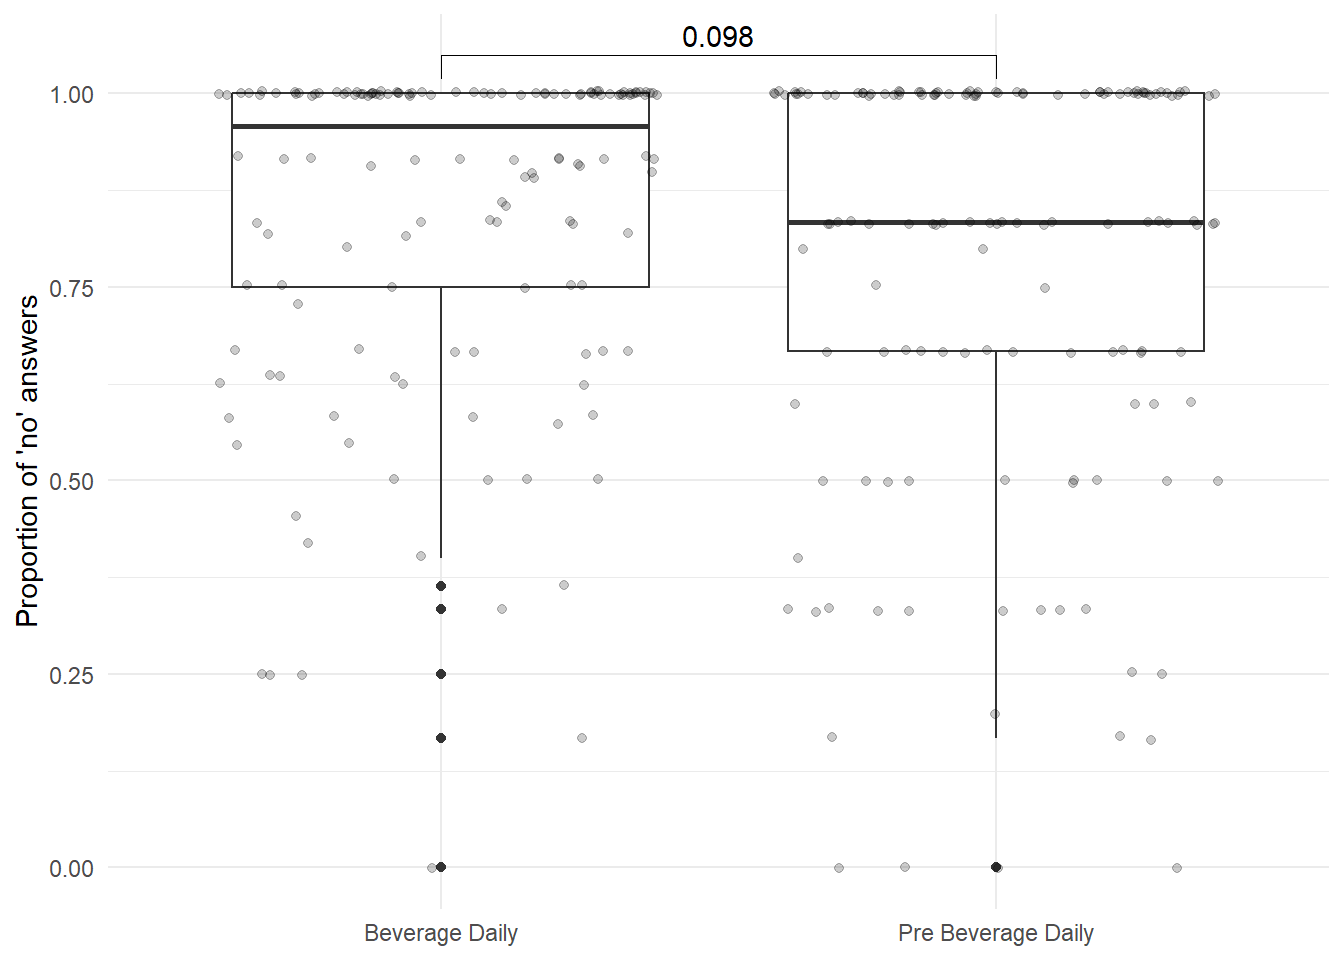
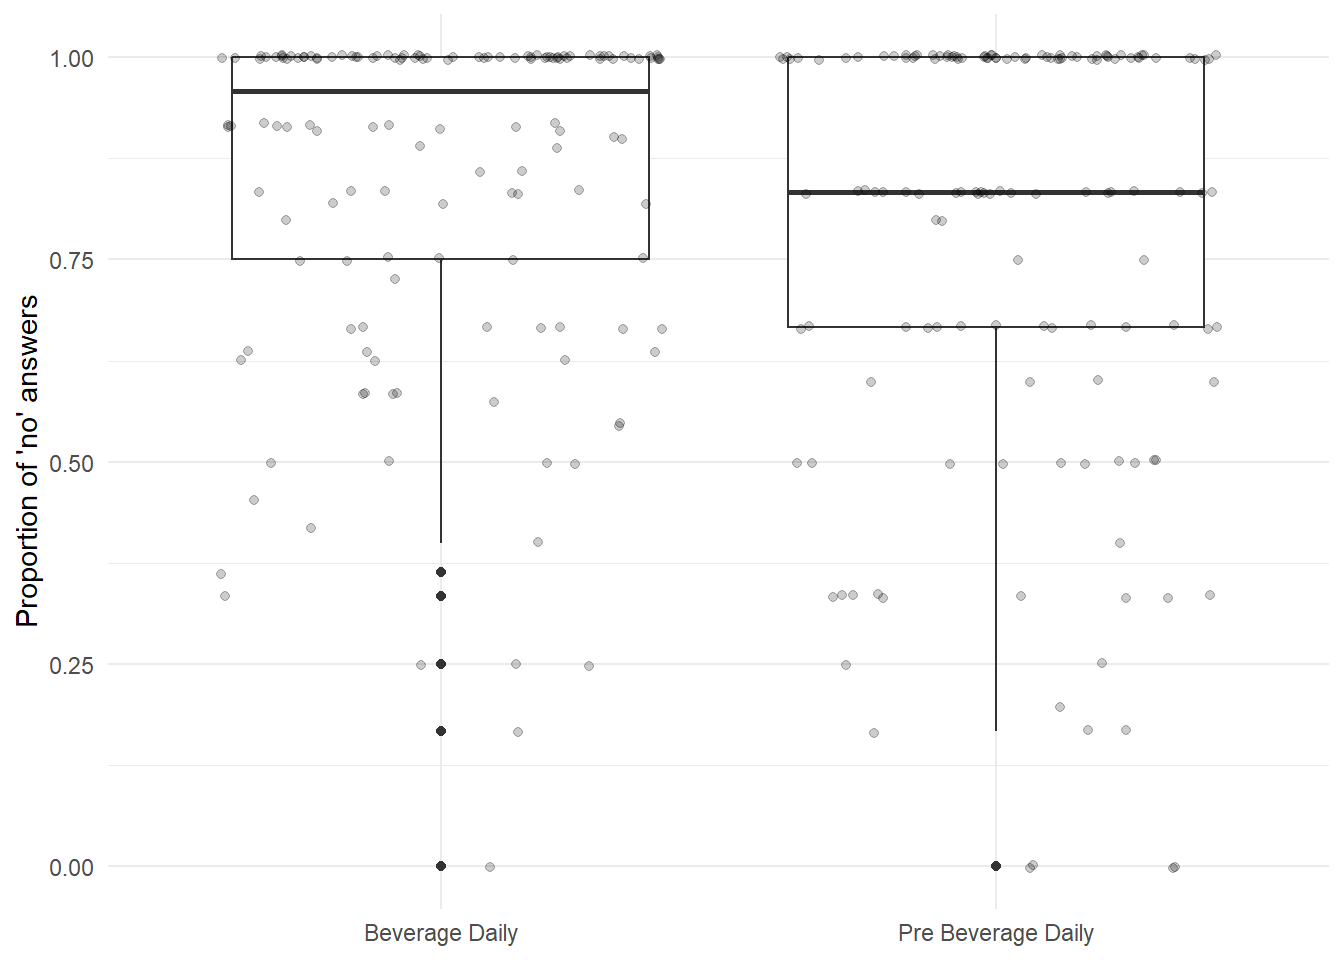
Updates

diff --git a/report.html b/report.html
@@ -204,9 +204,10 @@ background: #00524e;
 <span id="cb3-13"><a href="#cb3-13" aria-hidden="true" tabindex="-1"></a>  <span class="fu">group_by</span>(Battery) <span class="sc">%&gt;%</span></span>
 <span id="cb3-14"><a href="#cb3-14" aria-hidden="true" tabindex="-1"></a>  <span class="fu">get_summary_stats</span>(Value, <span class="at">show =</span> <span class="fu">c</span>(<span class="st">"n"</span>, <span class="st">"mean"</span>, <span class="st">"sd"</span>, <span class="st">"se"</span>, <span class="st">"ci"</span>))</span>
 <span id="cb3-15"><a href="#cb3-15" aria-hidden="true" tabindex="-1"></a></span>
-<span id="cb3-16"><a href="#cb3-16" aria-hidden="true" tabindex="-1"></a><span class="fu">kable</span>(daily_alc_stats)</span></code><button title="Copy to Clipboard" class="code-copy-button"><i class="bi"></i></button></pre></div>
+<span id="cb3-16"><a href="#cb3-16" aria-hidden="true" tabindex="-1"></a><span class="fu">kable</span>(daily_alc_stats, <span class="at">caption =</span> <span class="st">"Metrics of 'no' answers during and pre beverage"</span>)</span></code><button title="Copy to Clipboard" class="code-copy-button"><i class="bi"></i></button></pre></div>
 <div class="cell-output-display">
 <table class="table table-sm table-striped small">
+<caption>Metrics of ‘no’ answers during and pre beverage</caption>
 <thead>
 <tr class="header">
 <th style="text-align: left;">Battery</th>
@@ -250,16 +251,15 @@ background: #00524e;
 <span id="cb4-3"><a href="#cb4-3" aria-hidden="true" tabindex="-1"></a>  <span class="fu">summarise</span>(<span class="at">Value =</span> <span class="fu">mean</span>(Value)) <span class="sc">%&gt;%</span></span>
 <span id="cb4-4"><a href="#cb4-4" aria-hidden="true" tabindex="-1"></a>  <span class="fu">ggplot</span>(<span class="fu">aes</span>(Battery, Value)) <span class="sc">+</span></span>
 <span id="cb4-5"><a href="#cb4-5" aria-hidden="true" tabindex="-1"></a>  <span class="fu">geom_boxplot</span>() <span class="sc">+</span></span>
-<span id="cb4-6"><a href="#cb4-6" aria-hidden="true" tabindex="-1"></a>  <span class="fu">geom_pwc</span>(<span class="at">method =</span> <span class="st">"wilcox_test"</span>)<span class="sc">+</span></span>
-<span id="cb4-7"><a href="#cb4-7" aria-hidden="true" tabindex="-1"></a>  <span class="fu">geom_jitter</span>(<span class="at">alpha =</span> <span class="fl">0.2</span>) <span class="sc">+</span></span>
-<span id="cb4-8"><a href="#cb4-8" aria-hidden="true" tabindex="-1"></a>  <span class="fu">theme_minimal</span>() <span class="sc">+</span></span>
-<span id="cb4-9"><a href="#cb4-9" aria-hidden="true" tabindex="-1"></a>  <span class="fu">ylab</span>(<span class="st">"Proportion of 'no' answers"</span>) <span class="sc">+</span></span>
-<span id="cb4-10"><a href="#cb4-10" aria-hidden="true" tabindex="-1"></a>  <span class="fu">theme</span>(<span class="at">axis.title.x =</span> <span class="fu">element_blank</span>())</span></code><button title="Copy to Clipboard" class="code-copy-button"><i class="bi"></i></button></pre></div>
+<span id="cb4-6"><a href="#cb4-6" aria-hidden="true" tabindex="-1"></a>  <span class="fu">geom_jitter</span>(<span class="at">alpha =</span> <span class="fl">0.2</span>) <span class="sc">+</span></span>
+<span id="cb4-7"><a href="#cb4-7" aria-hidden="true" tabindex="-1"></a>  <span class="fu">theme_minimal</span>() <span class="sc">+</span></span>
+<span id="cb4-8"><a href="#cb4-8" aria-hidden="true" tabindex="-1"></a>  <span class="fu">ylab</span>(<span class="st">"Proportion of 'no' answers"</span>) <span class="sc">+</span></span>
+<span id="cb4-9"><a href="#cb4-9" aria-hidden="true" tabindex="-1"></a>  <span class="fu">theme</span>(<span class="at">axis.title.x =</span> <span class="fu">element_blank</span>())</span></code><button title="Copy to Clipboard" class="code-copy-button"><i class="bi"></i></button></pre></div>
 <div class="cell-output-display page-columns page-full">
 <div class="quarto-figure quarto-figure-center page-columns page-full">
 <figure class="figure page-columns page-full">
 <p><img src="report_files/figure-html/unnamed-chunk-3-1.png" class="img-fluid figure-img" width="672"></p>
-<figcaption class="margin-caption">Proportion of ‘no’ answers per individual previous to and during the consumption of the beverage.p-values were obtained by a Wilcox test</figcaption>
+<figcaption class="margin-caption">Proportion of ‘no’ answers per individual previous to and during the consumption of the beverage.</figcaption>
 </figure>
 </div>
 </div>
@@ -459,9 +459,10 @@ model2 |      0.531 |      0.013 | 0.525 | 0.313 |     1 |    0.307 |      -Inf 
 <div class="sourceCode cell-code" id="cb16"><pre class="sourceCode r code-with-copy"><code class="sourceCode r"><span id="cb16-1"><a href="#cb16-1" aria-hidden="true" tabindex="-1"></a>predicted <span class="ot">&lt;-</span> <span class="fu">predict</span>(model2, <span class="at">newdata =</span> <span class="fu">tibble</span>(<span class="at">day =</span> <span class="fu">c</span>(<span class="dv">1</span>,<span class="dv">2</span>,<span class="dv">3</span>,<span class="dv">4</span>,<span class="dv">5</span>,<span class="dv">6</span>,<span class="dv">8</span>,<span class="dv">9</span>,<span class="dv">10</span>,<span class="dv">11</span>,<span class="dv">12</span>,<span class="dv">13</span>,<span class="dv">15</span>,<span class="dv">16</span>,<span class="dv">17</span>,<span class="dv">18</span>,<span class="dv">19</span>,<span class="dv">20</span>), <span class="at">bev =</span> <span class="fu">factor</span>(<span class="fu">c</span>(<span class="dv">0</span>, <span class="dv">0</span>, <span class="dv">0</span>, <span class="dv">0</span>,<span class="dv">0</span>,<span class="dv">0</span>,<span class="dv">1</span>,<span class="dv">1</span>,<span class="dv">1</span>,<span class="dv">1</span>,<span class="dv">1</span>,<span class="dv">1</span>,<span class="dv">1</span>,<span class="dv">1</span>,<span class="dv">1</span>,<span class="dv">1</span>,<span class="dv">1</span>,<span class="dv">1</span>))), <span class="at">type =</span> <span class="st">"response"</span>, <span class="at">re.form =</span> <span class="cn">NA</span>)</span>
 <span id="cb16-2"><a href="#cb16-2" aria-hidden="true" tabindex="-1"></a>prediction <span class="ot">&lt;-</span> <span class="fu">tibble</span>(<span class="at">Day =</span> <span class="fu">c</span>(<span class="dv">1</span>,<span class="dv">2</span>,<span class="dv">3</span>,<span class="dv">4</span>,<span class="dv">5</span>,<span class="dv">6</span>,<span class="dv">8</span>,<span class="dv">9</span>,<span class="dv">10</span>,<span class="dv">11</span>,<span class="dv">12</span>,<span class="dv">13</span>,<span class="dv">15</span>,<span class="dv">16</span>,<span class="dv">17</span>,<span class="dv">18</span>,<span class="dv">19</span>,<span class="dv">20</span>), <span class="st">"Predicted values"</span> <span class="ot">=</span> predicted)</span>
 <span id="cb16-3"><a href="#cb16-3" aria-hidden="true" tabindex="-1"></a></span>
-<span id="cb16-4"><a href="#cb16-4" aria-hidden="true" tabindex="-1"></a><span class="fu">kable</span>(prediction, <span class="at">align =</span> <span class="st">"l"</span>)</span></code><button title="Copy to Clipboard" class="code-copy-button"><i class="bi"></i></button></pre></div>
+<span id="cb16-4"><a href="#cb16-4" aria-hidden="true" tabindex="-1"></a><span class="fu">kable</span>(prediction, <span class="at">align =</span> <span class="st">"l"</span>, <span class="at">caption =</span> <span class="st">"Predictions of the probability of not consuming alcohol during days on which the question was asked"</span>)</span></code><button title="Copy to Clipboard" class="code-copy-button"><i class="bi"></i></button></pre></div>
 <div class="cell-output-display">
 <table class="table table-sm table-striped small">
+<caption>Predictions of the probability of not consuming alcohol during days on which the question was asked</caption>
 <thead>
 <tr class="header">
 <th style="text-align: left;">Day</th>
@@ -546,14 +547,15 @@ model2 |      0.531 |      0.013 | 0.525 | 0.313 |     1 |    0.307 |      -Inf 
 </div>
 </div>
 <hr>
-<p>And these are the predictions on days 0, 7, 14 and 21</p>
+<p>And these are the predictions on days 0, 7, 14 and 21:</p>
 <div class="cell">
 <div class="sourceCode cell-code" id="cb17"><pre class="sourceCode r code-with-copy"><code class="sourceCode r"><span id="cb17-1"><a href="#cb17-1" aria-hidden="true" tabindex="-1"></a>predicted <span class="ot">&lt;-</span> <span class="fu">predict</span>(model2, <span class="at">newdata =</span> <span class="fu">tibble</span>(<span class="at">day =</span> <span class="fu">c</span>(<span class="dv">0</span>, <span class="dv">7</span>, <span class="dv">14</span>, <span class="dv">21</span>), <span class="at">bev =</span> <span class="fu">factor</span>(<span class="fu">c</span>(<span class="dv">0</span>, <span class="dv">1</span>, <span class="dv">1</span>, <span class="dv">1</span>))), <span class="at">type =</span> <span class="st">"response"</span>, <span class="at">re.form =</span> <span class="cn">NA</span>)</span>
 <span id="cb17-2"><a href="#cb17-2" aria-hidden="true" tabindex="-1"></a>prediction <span class="ot">&lt;-</span> <span class="fu">tibble</span>(<span class="at">Day =</span> <span class="fu">c</span>(<span class="dv">0</span>, <span class="dv">7</span>, <span class="dv">14</span>, <span class="dv">21</span>), <span class="st">"Predicted values"</span> <span class="ot">=</span> predicted)</span>
 <span id="cb17-3"><a href="#cb17-3" aria-hidden="true" tabindex="-1"></a></span>
-<span id="cb17-4"><a href="#cb17-4" aria-hidden="true" tabindex="-1"></a><span class="fu">kable</span>(prediction, <span class="at">align =</span> <span class="st">"l"</span>)</span></code><button title="Copy to Clipboard" class="code-copy-button"><i class="bi"></i></button></pre></div>
+<span id="cb17-4"><a href="#cb17-4" aria-hidden="true" tabindex="-1"></a><span class="fu">kable</span>(prediction, <span class="at">align =</span> <span class="st">"l"</span>, <span class="at">caption =</span> <span class="st">"Predictions of the probability of not consuming alcohol for the days on which the question was not asked."</span>)</span></code><button title="Copy to Clipboard" class="code-copy-button"><i class="bi"></i></button></pre></div>
 <div class="cell-output-display">
 <table class="table table-sm table-striped small">
+<caption>Predictions of the probability of not consuming alcohol for the days on which the question was not asked.</caption>
 <thead>
 <tr class="header">
 <th style="text-align: left;">Day</th>
@@ -646,7 +648,7 @@ model2 |      0.531 |      0.013 | 0.525 | 0.313 |     1 |    0.307 |      -Inf 
 <span id="cb24-8"><a href="#cb24-8" aria-hidden="true" tabindex="-1"></a>data_who_calc <span class="ot">&lt;-</span> data_who_calc[<span class="sc">!</span><span class="fu">duplicated</span>(data_who_calc),]</span>
 <span id="cb24-9"><a href="#cb24-9" aria-hidden="true" tabindex="-1"></a></span>
 <span id="cb24-10"><a href="#cb24-10" aria-hidden="true" tabindex="-1"></a></span>
-<span id="cb24-11"><a href="#cb24-11" aria-hidden="true" tabindex="-1"></a><span class="co"># Metrics for the WHO-index bt day</span></span>
+<span id="cb24-11"><a href="#cb24-11" aria-hidden="true" tabindex="-1"></a><span class="co"># Metrics for the WHO-index by day</span></span>
 <span id="cb24-12"><a href="#cb24-12" aria-hidden="true" tabindex="-1"></a>data_who_stats <span class="ot">&lt;-</span>  data_who_calc <span class="sc">%&gt;%</span> </span>
 <span id="cb24-13"><a href="#cb24-13" aria-hidden="true" tabindex="-1"></a>  <span class="fu">group_by</span>(day) <span class="sc">%&gt;%</span> </span>
 <span id="cb24-14"><a href="#cb24-14" aria-hidden="true" tabindex="-1"></a><span class="fu">get_summary_stats</span>(Value, <span class="at">show =</span> <span class="fu">c</span>(<span class="st">"n"</span>, <span class="st">"mean"</span>, <span class="st">"ci"</span>))</span>
@@ -719,14 +721,13 @@ model2 |      0.531 |      0.013 | 0.525 | 0.313 |     1 |    0.307 |      -Inf 
 <span id="cb25-4"><a href="#cb25-4" aria-hidden="true" tabindex="-1"></a>  <span class="fu">ggplot</span>(<span class="fu">aes</span>(day, Value, <span class="at">fill =</span> <span class="st">`</span><span class="at">Beverage Consumption</span><span class="st">`</span>))<span class="sc">+</span></span>
 <span id="cb25-5"><a href="#cb25-5" aria-hidden="true" tabindex="-1"></a>  <span class="fu">geom_boxplot</span>()<span class="sc">+</span></span>
 <span id="cb25-6"><a href="#cb25-6" aria-hidden="true" tabindex="-1"></a>  <span class="fu">geom_jitter</span>(<span class="at">alpha =</span> <span class="fl">0.2</span>)<span class="sc">+</span></span>
-<span id="cb25-7"><a href="#cb25-7" aria-hidden="true" tabindex="-1"></a>  <span class="fu">geom_pwc</span>(<span class="at">method =</span> <span class="st">"wilcox_test"</span>)<span class="sc">+</span></span>
-<span id="cb25-8"><a href="#cb25-8" aria-hidden="true" tabindex="-1"></a>  <span class="fu">ylab</span>(<span class="st">"WHO Well Being Index (%)"</span>)<span class="sc">+</span></span>
-<span id="cb25-9"><a href="#cb25-9" aria-hidden="true" tabindex="-1"></a>  <span class="fu">theme_minimal</span>()</span></code><button title="Copy to Clipboard" class="code-copy-button"><i class="bi"></i></button></pre></div>
+<span id="cb25-7"><a href="#cb25-7" aria-hidden="true" tabindex="-1"></a>  <span class="fu">ylab</span>(<span class="st">"WHO Well Being Index (%)"</span>)<span class="sc">+</span></span>
+<span id="cb25-8"><a href="#cb25-8" aria-hidden="true" tabindex="-1"></a>  <span class="fu">theme_minimal</span>()</span></code><button title="Copy to Clipboard" class="code-copy-button"><i class="bi"></i></button></pre></div>
 <div class="cell-output-display page-columns page-full">
 <div class="quarto-figure quarto-figure-center page-columns page-full">
 <figure class="figure page-columns page-full">
 <p><img src="report_files/figure-html/unnamed-chunk-14-1.png" class="img-fluid figure-img" width="672"></p>
-<figcaption class="margin-caption">WHO Well being index of participants during the study. p-values were obtained by a Wilcox test.</figcaption>
+<figcaption class="margin-caption">WHO Well being index of participants during the study.</figcaption>
 </figure>
 </div>
 </div>
@@ -778,13 +779,12 @@ model2 |      0.531 |      0.013 | 0.525 | 0.313 |     1 |    0.307 |      -Inf 
 <div class="quarto-figure quarto-figure-center page-columns page-full">
 <figure class="figure page-columns page-full">
 <p><img src="report_files/figure-html/unnamed-chunk-15-1.png" class="img-fluid figure-img" width="672"></p>
-<figcaption class="margin-caption">Change in the WHO Well-Being Index during the study for each participant.</figcaption>
+<figcaption class="margin-caption">Change in the WHO Well-Being Index during the study for each participant. The dashed line indicates the day on which the beverage started to be consumed.</figcaption>
 </figure>
 </div>
 </div>
 </div>
 <hr>
-<p>We can see that from day 7 to 21, on average, the change in the index increases. By the week 3, the average increase from the start of the beverage consumption is significant (10.4%).</p>
 </section>
 <section id="modeling-1" class="level2 page-columns page-full">
 <h2 class="anchored" data-anchor-id="modeling-1">Modeling</h2>
@@ -863,9 +863,10 @@ day:bev1  0.252 -0.678 -0.810</code></pre>
 <span id="cb31-14"><a href="#cb31-14" aria-hidden="true" tabindex="-1"></a>w4 <span class="ot">&lt;-</span> prediction[<span class="dv">4</span>] <span class="sc">-</span> prediction[<span class="dv">1</span>]</span>
 <span id="cb31-15"><a href="#cb31-15" aria-hidden="true" tabindex="-1"></a></span>
 <span id="cb31-16"><a href="#cb31-16" aria-hidden="true" tabindex="-1"></a><span class="co">#Change week by week</span></span>
-<span id="cb31-17"><a href="#cb31-17" aria-hidden="true" tabindex="-1"></a><span class="fu">kable</span>(<span class="fu">tibble</span>(<span class="at">Week =</span> <span class="fu">c</span>(<span class="dv">1</span>, <span class="dv">2</span>, <span class="dv">3</span>), <span class="at">Change =</span> <span class="fu">c</span>(w1, w2, w3)))</span></code><button title="Copy to Clipboard" class="code-copy-button"><i class="bi"></i></button></pre></div>
+<span id="cb31-17"><a href="#cb31-17" aria-hidden="true" tabindex="-1"></a><span class="fu">kable</span>(<span class="fu">tibble</span>(<span class="at">Week =</span> <span class="fu">c</span>(<span class="dv">1</span>, <span class="dv">2</span>, <span class="dv">3</span>), <span class="at">Change =</span> <span class="fu">c</span>(w1, w2, w3)), <span class="at">caption =</span> <span class="st">"Changes in the WHO-index week by week calculated using the model"</span>)</span></code><button title="Copy to Clipboard" class="code-copy-button"><i class="bi"></i></button></pre></div>
 <div class="cell-output-display">
 <table class="table table-sm table-striped small">
+<caption>Changes in the WHO-index week by week calculated using the model</caption>
 <thead>
 <tr class="header">
 <th style="text-align: right;">Week</th>
@@ -930,12 +931,11 @@ day:bev1  0.252 -0.678 -0.810</code></pre>
 <div class="quarto-figure quarto-figure-center page-columns page-full">
 <figure class="figure page-columns page-full">
 <p><img src="report_files/figure-html/unnamed-chunk-19-1.png" class="img-fluid figure-img" width="672"></p>
-<figcaption class="margin-caption">Comparison of the average change in the WHO Well-Being Index with 15 random participants. Blck solid line represents the average change.</figcaption>
+<figcaption class="margin-caption">Comparison of the average change in the WHO Well-Being Index with 15 random participants. Black solid line represents the average change.</figcaption>
 </figure>
 </div>
 </div>
 </div>
-<p>In this sample, 67% of the participants did not show a significant index increase, while a 20% showed an increase of more than 10%. A 13% showed a significant decrease.</p>
 </section>
 <section id="conclusion-1" class="level2">
 <h2 class="anchored" data-anchor-id="conclusion-1">Conclusion</h2>
@@ -969,11 +969,10 @@ day:bev1  0.252 -0.678 -0.810</code></pre>
 <span id="cb37-2"><a href="#cb37-2" aria-hidden="true" tabindex="-1"></a>  <span class="fu">mutate</span>(<span class="at">day =</span> <span class="fu">as_factor</span>(<span class="fu">ifelse</span>(day <span class="sc">==</span> <span class="dv">14</span>, <span class="st">"Day 14"</span>, <span class="st">"Day 21"</span>))) <span class="sc">%&gt;%</span> </span>
 <span id="cb37-3"><a href="#cb37-3" aria-hidden="true" tabindex="-1"></a>  <span class="fu">ggplot</span>(<span class="fu">aes</span>(day, Value))<span class="sc">+</span></span>
 <span id="cb37-4"><a href="#cb37-4" aria-hidden="true" tabindex="-1"></a>  <span class="fu">geom_boxplot</span>()<span class="sc">+</span></span>
-<span id="cb37-5"><a href="#cb37-5" aria-hidden="true" tabindex="-1"></a>  <span class="fu">geom_pwc</span>(<span class="at">method =</span> <span class="st">"wilcox_test"</span>)<span class="sc">+</span></span>
-<span id="cb37-6"><a href="#cb37-6" aria-hidden="true" tabindex="-1"></a>  <span class="fu">theme_minimal</span>()<span class="sc">+</span></span>
-<span id="cb37-7"><a href="#cb37-7" aria-hidden="true" tabindex="-1"></a>  <span class="fu">geom_jitter</span>(<span class="at">alpha =</span> <span class="fl">0.2</span>)<span class="sc">+</span></span>
-<span id="cb37-8"><a href="#cb37-8" aria-hidden="true" tabindex="-1"></a>  <span class="fu">ylab</span>(<span class="st">"Number of substitutions"</span>)<span class="sc">+</span></span>
-<span id="cb37-9"><a href="#cb37-9" aria-hidden="true" tabindex="-1"></a>  <span class="fu">xlab</span>(<span class="st">""</span>)</span></code><button title="Copy to Clipboard" class="code-copy-button"><i class="bi"></i></button></pre></div>
+<span id="cb37-5"><a href="#cb37-5" aria-hidden="true" tabindex="-1"></a>  <span class="fu">theme_minimal</span>()<span class="sc">+</span></span>
+<span id="cb37-6"><a href="#cb37-6" aria-hidden="true" tabindex="-1"></a>  <span class="fu">geom_jitter</span>(<span class="at">alpha =</span> <span class="fl">0.2</span>)<span class="sc">+</span></span>
+<span id="cb37-7"><a href="#cb37-7" aria-hidden="true" tabindex="-1"></a>  <span class="fu">ylab</span>(<span class="st">"Number of substitutions"</span>)<span class="sc">+</span></span>
+<span id="cb37-8"><a href="#cb37-8" aria-hidden="true" tabindex="-1"></a>  <span class="fu">xlab</span>(<span class="st">""</span>)</span></code><button title="Copy to Clipboard" class="code-copy-button"><i class="bi"></i></button></pre></div>
 <div class="cell-output-display page-columns page-full">
 <div class="quarto-figure quarto-figure-center page-columns page-full">
 <figure class="figure page-columns page-full">
@@ -986,17 +985,18 @@ day:bev1  0.252 -0.678 -0.810</code></pre>
 <hr>
 <p>There is an increase in the median at day 21.</p>
 <div class="cell">
-<div class="sourceCode cell-code" id="cb38"><pre class="sourceCode r code-with-copy"><code class="sourceCode r"><span id="cb38-1"><a href="#cb38-1" aria-hidden="true" tabindex="-1"></a>alc_use_14 <span class="ot">&lt;-</span> alc_use <span class="sc">%&gt;%</span> </span>
-<span id="cb38-2"><a href="#cb38-2" aria-hidden="true" tabindex="-1"></a>  <span class="fu">select</span>(day, Value) <span class="sc">%&gt;%</span> </span>
-<span id="cb38-3"><a href="#cb38-3" aria-hidden="true" tabindex="-1"></a>  <span class="fu">filter</span>(day <span class="sc">==</span> <span class="dv">14</span>) <span class="sc">%&gt;%</span> </span>
-<span id="cb38-4"><a href="#cb38-4" aria-hidden="true" tabindex="-1"></a>  <span class="fu">pull</span>(Value)</span>
-<span id="cb38-5"><a href="#cb38-5" aria-hidden="true" tabindex="-1"></a></span>
-<span id="cb38-6"><a href="#cb38-6" aria-hidden="true" tabindex="-1"></a>alc_use_21 <span class="ot">&lt;-</span> alc_use <span class="sc">%&gt;%</span> </span>
-<span id="cb38-7"><a href="#cb38-7" aria-hidden="true" tabindex="-1"></a>  <span class="fu">select</span>(day, Value) <span class="sc">%&gt;%</span> </span>
-<span id="cb38-8"><a href="#cb38-8" aria-hidden="true" tabindex="-1"></a>  <span class="fu">filter</span>(day <span class="sc">==</span> <span class="dv">21</span>) <span class="sc">%&gt;%</span> </span>
-<span id="cb38-9"><a href="#cb38-9" aria-hidden="true" tabindex="-1"></a>  <span class="fu">pull</span>(Value)</span>
-<span id="cb38-10"><a href="#cb38-10" aria-hidden="true" tabindex="-1"></a></span>
-<span id="cb38-11"><a href="#cb38-11" aria-hidden="true" tabindex="-1"></a><span class="fu">length</span>(alc_use_14)</span></code><button title="Copy to Clipboard" class="code-copy-button"><i class="bi"></i></button></pre></div>
+<div class="sourceCode cell-code" id="cb38"><pre class="sourceCode r code-with-copy"><code class="sourceCode r"><span id="cb38-1"><a href="#cb38-1" aria-hidden="true" tabindex="-1"></a><span class="co"># Let' generate the two groups</span></span>
+<span id="cb38-2"><a href="#cb38-2" aria-hidden="true" tabindex="-1"></a>alc_use_14 <span class="ot">&lt;-</span> alc_use <span class="sc">%&gt;%</span> </span>
+<span id="cb38-3"><a href="#cb38-3" aria-hidden="true" tabindex="-1"></a>  <span class="fu">select</span>(day, Value) <span class="sc">%&gt;%</span> </span>
+<span id="cb38-4"><a href="#cb38-4" aria-hidden="true" tabindex="-1"></a>  <span class="fu">filter</span>(day <span class="sc">==</span> <span class="dv">14</span>) <span class="sc">%&gt;%</span> </span>
+<span id="cb38-5"><a href="#cb38-5" aria-hidden="true" tabindex="-1"></a>  <span class="fu">pull</span>(Value)</span>
+<span id="cb38-6"><a href="#cb38-6" aria-hidden="true" tabindex="-1"></a></span>
+<span id="cb38-7"><a href="#cb38-7" aria-hidden="true" tabindex="-1"></a>alc_use_21 <span class="ot">&lt;-</span> alc_use <span class="sc">%&gt;%</span> </span>
+<span id="cb38-8"><a href="#cb38-8" aria-hidden="true" tabindex="-1"></a>  <span class="fu">select</span>(day, Value) <span class="sc">%&gt;%</span> </span>
+<span id="cb38-9"><a href="#cb38-9" aria-hidden="true" tabindex="-1"></a>  <span class="fu">filter</span>(day <span class="sc">==</span> <span class="dv">21</span>) <span class="sc">%&gt;%</span> </span>
+<span id="cb38-10"><a href="#cb38-10" aria-hidden="true" tabindex="-1"></a>  <span class="fu">pull</span>(Value)</span>
+<span id="cb38-11"><a href="#cb38-11" aria-hidden="true" tabindex="-1"></a></span>
+<span id="cb38-12"><a href="#cb38-12" aria-hidden="true" tabindex="-1"></a><span class="fu">length</span>(alc_use_14)</span></code><button title="Copy to Clipboard" class="code-copy-button"><i class="bi"></i></button></pre></div>
 <div class="cell-output cell-output-stdout">
 <pre><code>[1] 125</code></pre>
 </div>
@@ -1027,7 +1027,7 @@ mean difference
 <section id="conclusion-2" class="level2">
 <h2 class="anchored" data-anchor-id="conclusion-2">Conclusion</h2>
 <ul>
-<li>There is a statistically significant change in the number of times that alcohol is substitued by the infused beverage on day 21 compared to day 14. on day 21, alcohol was substitutde 0.53 more times than on day 14.</li>
+<li>There is a statistically significant change in the number of times that alcohol is substitued by the infused beverage on day 21 compared to day 14. On day 21, alcohol was substituted 0.53 more times than on day 14.</li>
 </ul>
 </section>
 
